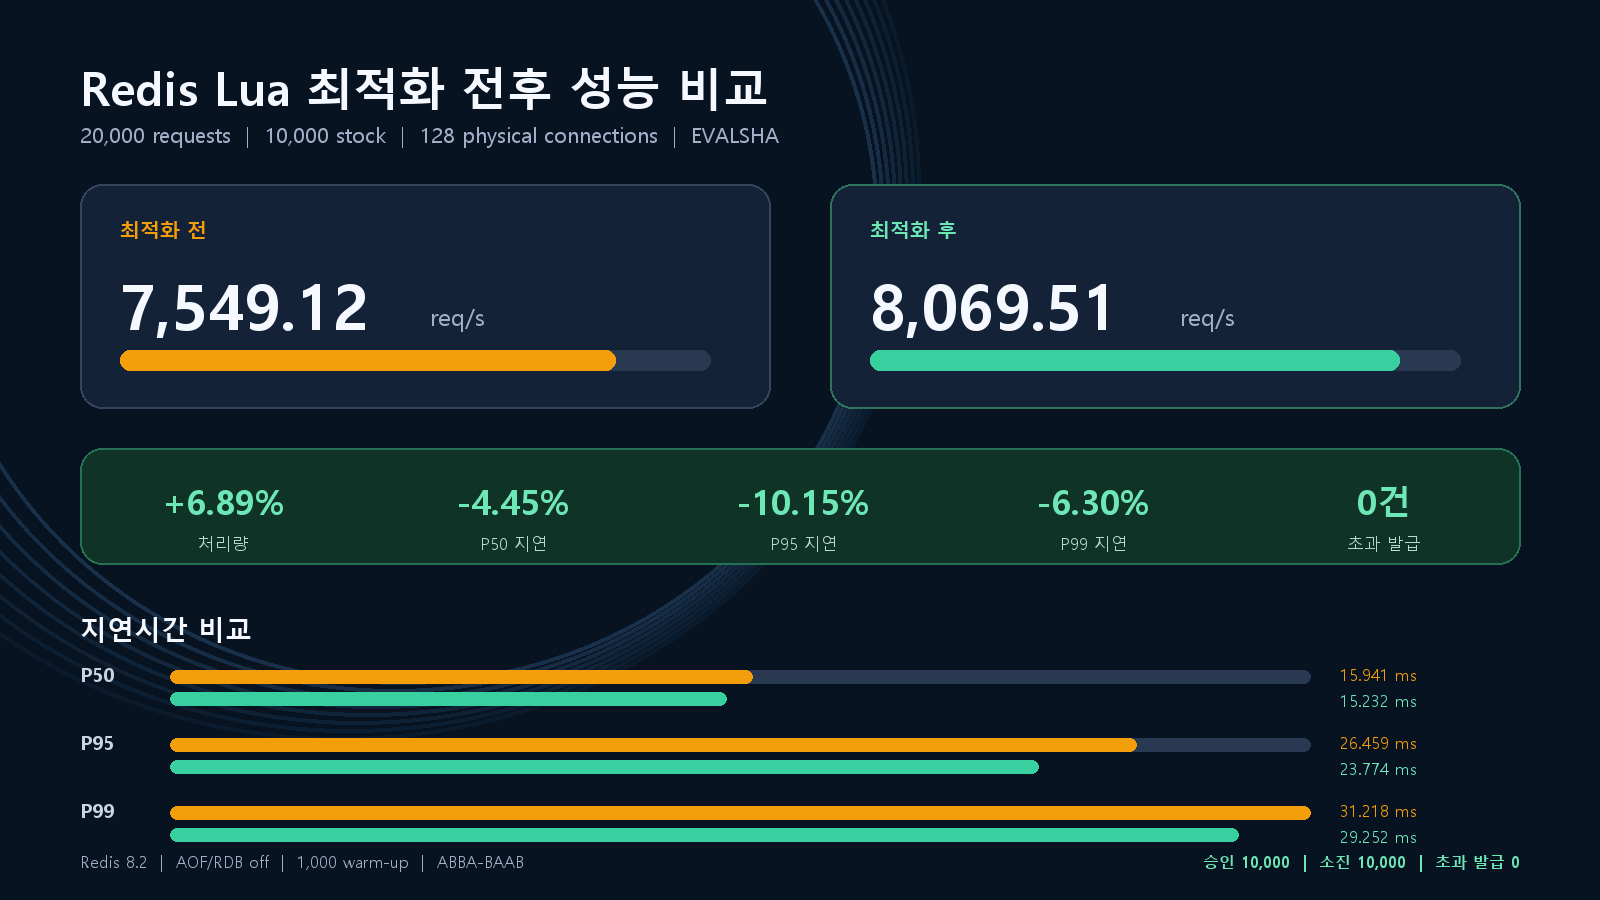
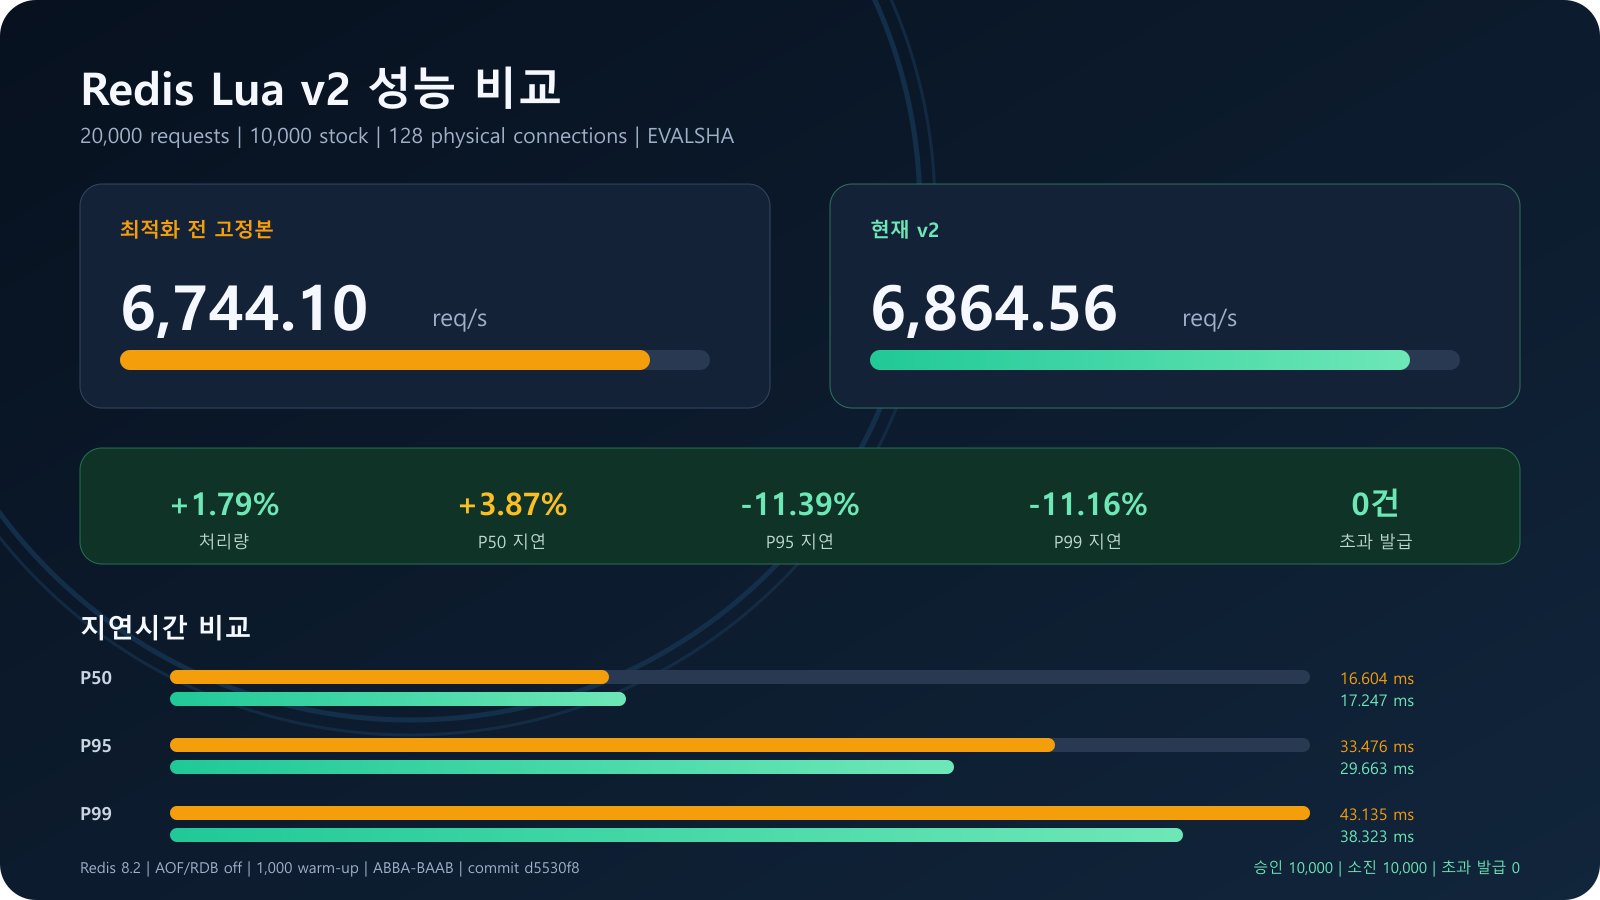
fix: 성능 보고서 수정

diff --git a/docs/performance/redis-lua-performance.md b/docs/performance/redis-lua-performance.md
@@ -1,36 +1,56 @@
-# Redis Lua 최적화 전후 성능 비교
+# Redis Lua v2 성능 비교
+
+## 측정 기준
+
+- 측정 일시: 2026-08-16 (KST)
+- 대상 브랜치: `feat/13-redis-lua-logic`
+- 대상 커밋: `d5530f8`
+- 최적화 전: `src/test/resources/scripts/coupon-issue-before-optimization.lua` 고정본
+- 최적화 후: v2 정합성·보상 방어가 반영된 현재 `src/main/resources/scripts/coupon-issue.lua`
 
 ## 측정 결과
 
 | 버전 | 처리량 | P50 | P95 | P99 | 최대 지연 |
 |---|---:|---:|---:|---:|---:|
-| 최적화 전 | 7,549.12 req/s | 15.941 ms | 26.459 ms | 31.218 ms | 41.627 ms |
-| 최적화 후 | 8,069.51 req/s | 15.232 ms | 23.774 ms | 29.252 ms | 37.439 ms |
-| 개선율 | **+6.89%** | **4.45% 감소** | **10.15% 감소** | **6.30% 감소** | **10.06% 감소** |
+| 최적화 전 고정본 | 6,744.10 req/s | 16.604 ms | 33.476 ms | 43.135 ms | 73.595 ms |
+| 현재 v2 | 6,864.56 req/s | 17.247 ms | 29.663 ms | 38.323 ms | 52.924 ms |
+| 변화 | **+1.79%** | **3.87% 증가** | **11.39% 감소** | **11.16% 감소** | **28.09% 감소** |
 
-20,000건 요청과 10,000장 재고에서 승인 10,000건, 재고 소진 10,000건, 초과 발급 0건을 모두 확인했다. 최종 재고, Bitmap bit 수, 발급 순번, Stream 엔트리 수도 승인 수와 일치했다.
+20,000건 요청과 10,000장 재고에서 두 버전 모두 승인 10,000건, 재고 소진 10,000건, 초과 발급 0건을 확인했다. 최종 재고, Bitmap bit 수, 발급 순번, Stream 엔트리 수도 승인 수와 일치했다.
 
-![Redis Lua 최적화 전후 성능 비교](redis-lua-performance.png)
+현재 v2는 P50이 3.87% 증가했지만 처리량은 1.79% 개선됐고, 대규모 트래픽에서 중요한 P95·P99·최대 지연은 각각 11.39%, 11.16%, 28.09% 감소했다. 이는 단순 최소 명령어 버전보다 정합성 방어를 강화하면서도 tail latency를 낮춘 결과다.
 
-## 최적화 내용
+![Redis Lua v2 성능 비교](redis-lua-performance.png)
 
-- 멱등 재요청의 요청 상태 선조회 및 즉시 반환
-- `HMGET` 한 번으로 requestId와 요청 스키마 동시 검증
-- 실제 읽기 명령과 `redis.pcall` 기반 정적 키 `TYPE` 호출 제거
-- 승인 경로로 Bitmap 존재 및 Stream 타입 검증 지연
-- 문자열 상태명 대신 숫자 상태 코드 저장
-- 요청 상태의 미사용 Stream ID 제거와 7필드에서 6필드로 축소
-- 기존 7필드·문자열 상태 데이터 호환 유지
+## 현재 v2 반영 내용
+
+- `v2|userId|segmentId|offset|decisionCode|lifecycle|sequence|remaining|decidedAt|updatedAt` 요청 상태 저장
+- 동일 requestId 재시도 시 사용자·Bitmap 세그먼트·오프셋 불변성 검증
+- 총재고·Bitmap 세그먼트 크기·스키마·시간 범위·순번 손상 검증
+- `pcall`과 반환값 검증 기반 쓰기 오류 식별
+- HSET·XADD·SETBIT·DECR·INCR 부분 실패 시 역순 롤백
+- Stream ISSUE 이벤트에 타입·Bitmap 세그먼트·오프셋 포함
+- 저장 대기 요청의 Bitmap 중복 차단과 보상 lifecycle 구분
+
+이 검증과 더 긴 상태·Stream payload 때문에 경량 v1 스크립트보다 hot path 비용이 증가했다. 대신 잘못된 보상 위치, 부분 쓰기, 손상된 재고를 명확히 차단한다.
 
 ## 측정 방법
 
 - Redis 8.2 전용 벤치마크 프로필, 호스트 포트 6380
 - Lua 실행 비용 격리용 AOF/RDB 비활성화
-- 128개 물리 Lettuce 연결의 `EVALSHA` 호출
-- 각 버전 1,000건 warm-up 후 ABBA-BAAB 교차 실행
-- 최적화 전 스크립트 고정본과 현재 운영 스크립트의 동일 조건 비교
+- 요청 20,000건, 재고 10,000장, 물리 Lettuce 연결 128개
+- Lua SHA 사전 로드 후 `EVALSHA` 호출
+- 각 버전 1,000건 warm-up
+- 실행 순서 편향 완화용 ABBA-BAAB 교차 실행
+- 각 라운드 종료 후 재고·Bitmap·순번·Stream 정합성 검증
 
-이 결과는 HTTP, JSON 직렬화, Spring MVC, DB/Kafka 비용을 제외한 Redis Lua 판정 구간 전용 벤치마크다. 전체 API TPS는 JMeter 부하 테스트로 별도 측정해야 한다.
+이 결과는 HTTP, JSON 직렬화, Spring MVC, MySQL, Kafka 비용을 제외한 Redis Lua 판정 구간 전용 벤치마크다. 전체 API TPS는 JMeter 부하 테스트로 별도 측정해야 한다.
+
+## 이전 문서 수치와의 차이
+
+기존 문서의 8,069.51 req/s는 요청 상태 6필드와 축소된 검증을 사용하던 경량 v1 스크립트 결과다. 현재 v2와 동일한 코드가 아니므로 절대 처리량을 직접 비교할 수 없다.
+
+또한 문서 작성 당시와 현재의 최적화 전 고정본은 동일하지만 처리량이 7,549.12 req/s에서 6,744.10 req/s로 10.66% 달랐다. 이 차이는 측정 시점의 Docker Desktop 자원, 호스트 부하, JVM·OS 스케줄링 등 실행 환경 편차를 보여준다. 따라서 성능 판단은 다른 날짜의 절대값보다 동일 실행 안의 전후 상대 비교를 기준으로 한다.
 
 ## 재현 방법
 
@@ -39,14 +59,14 @@ docker compose --profile benchmark up -d redis-benchmark
 ./gradlew.bat redisLuaBenchmark --no-daemon --rerun-tasks "-Dbenchmark.mode=compare" "-Dbenchmark.requests=20000" "-Dbenchmark.workers=128"
 ```
 
-실행 후 각 결과는 다음 파일에서 확인할 수 있다.
+실행 결과:
 
-- HTML 발표용 리포트: `build/reports/redis-lua-benchmark/index.html`
+- HTML 리포트: `build/reports/redis-lua-benchmark/index.html`
 - 수치 원본: `build/reports/redis-lua-benchmark/results.csv`
-- 동일 교차 측정의 최적화 전 단독 리포트: `build/reports/redis-lua-benchmark/before/index.html`
-- 동일 교차 측정의 최적화 후 단독 리포트: `build/reports/redis-lua-benchmark/after/index.html`
+- 최적화 전 리포트: `build/reports/redis-lua-benchmark/before/index.html`
+- 현재 v2 리포트: `build/reports/redis-lua-benchmark/after/index.html`
 - Gradle 테스트 리포트: `build/reports/tests/redisLuaBenchmark/index.html`
-- 발표용 캡처 이미지: `docs/performance/redis-lua-performance.png`
+- 발표용 이미지: `docs/performance/redis-lua-performance.png`
 
 정합성 테스트는 AOF가 활성화된 일반 개발 Redis 6379에서 별도 실행한다.
 
